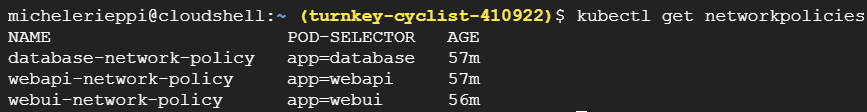
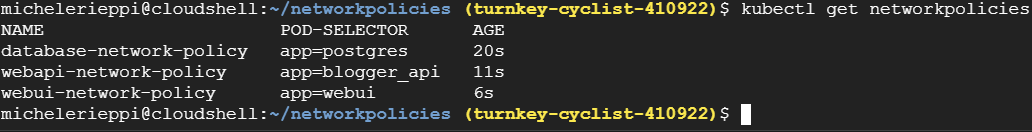
Changes to networkpolicies

diff --git a/README.md b/README.md
@@ -170,6 +170,8 @@ Since we didn't have a domain name, we've used the IP address of the webui servi
 
 ![alt text](images/Networkpolicies.png)
 
+! The policies might be different from the presentation due to the change of some labels in the project. !
+
 In the project we've organized our three different services (webui, api and database) in a way that allows each of them to communicate with the others. However, we want to make sure that the communication between the services is secure and that no unauthorized access is allowed. To do so, we've implemented network policies in our Kubernetes cluster.
 In particular, as stated in the policies yaml files, we can see that the webui is allowed to communicate only with the webapi, the web api connects to both webui and db and the db is allowed to communicate only with the webapi.
 
